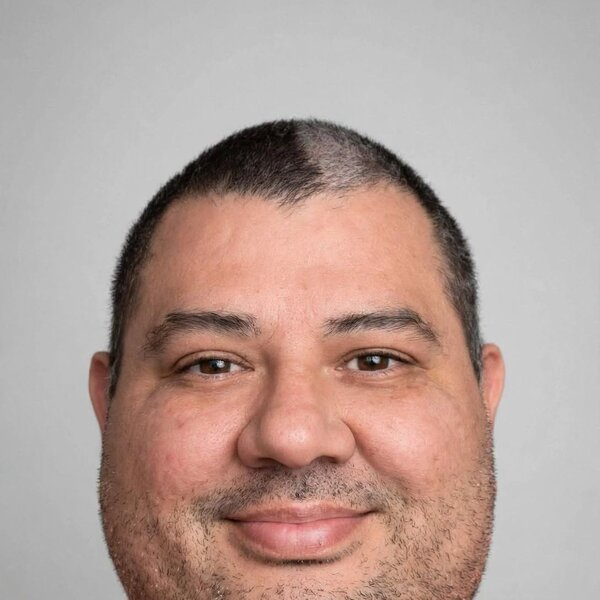
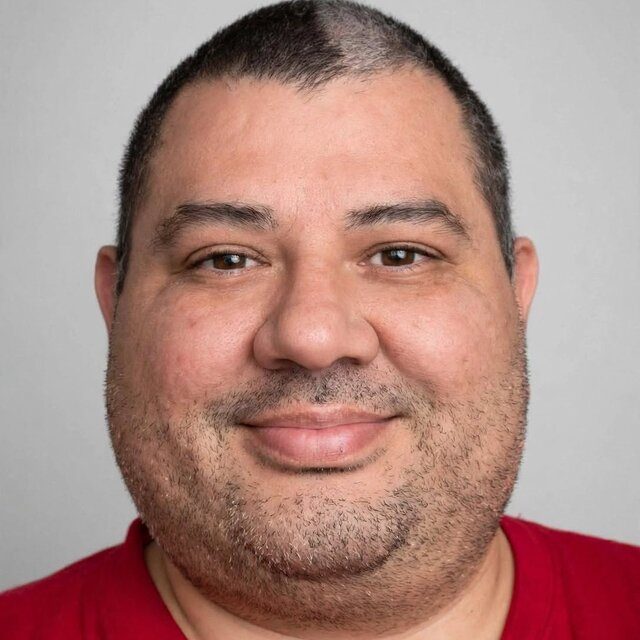
web(quien-soy): reencuadrar foto (se ve la barba) y quitar boton de telefono (#47)
- Foto recortada con la cara completa (barba/pera visible); object-position 50% 45%.
- Elimina el boton de telefono: contacto solo por WhatsApp.

diff --git a/index.html b/index.html
@@ -218,7 +218,7 @@
       <h2>Quién está detrás</h2>
     </div>
     <div class="quien" style="display:flex;gap:24px;align-items:center;flex-wrap:wrap;max-width:760px;margin:0 auto;">
-      <img src="/assets/juanpablo.jpg" alt="Juan Pablo Fuentealba Bizama, desarrollador web en Macul" width="160" height="160" loading="lazy" style="width:160px;height:160px;border-radius:50%;object-fit:cover;object-position:50% 30%;border:3px solid var(--accent,#4f8cff);background:#1a1a2e;flex:0 0 auto;">
+      <img src="/assets/juanpablo.jpg" alt="Juan Pablo Fuentealba Bizama, desarrollador web en Macul" width="160" height="160" loading="lazy" style="width:160px;height:160px;border-radius:50%;object-fit:cover;object-position:50% 45%;border:3px solid var(--accent,#4f8cff);background:#1a1a2e;flex:0 0 auto;">
       <div style="flex:1;min-width:240px;">
         <p style="margin-top:0;">Soy <b>Juan Pablo Fuentealba Bizama</b> ("Juan Pablo + IA"), desarrollador web en Macul. Hago <b>páginas web para negocios y pymes en todo Chile</b>, publicadas y funcionando. Trabajo con IA para entregar más rápido y a precio justo, sin intermediarios.</p>
         <p style="color:var(--muted);">También hago soporte técnico si lo necesitas.</p>
@@ -226,7 +226,6 @@
     </div>
     <div class="cta" style="margin-top:24px;text-align:center;">
       <a href="https://wa.me/56931232000?text=Hola%2C%20quiero%20una%20p%C3%A1gina%20web%20para%20mi%20negocio" target="_blank" class="btn btn-wa">💬 Escríbeme por WhatsApp</a>
-      <a href="tel:+56931232000" class="btn btn-primary">📞 +56 9 3123 2000</a>
     </div>
   </div>
 </section>
